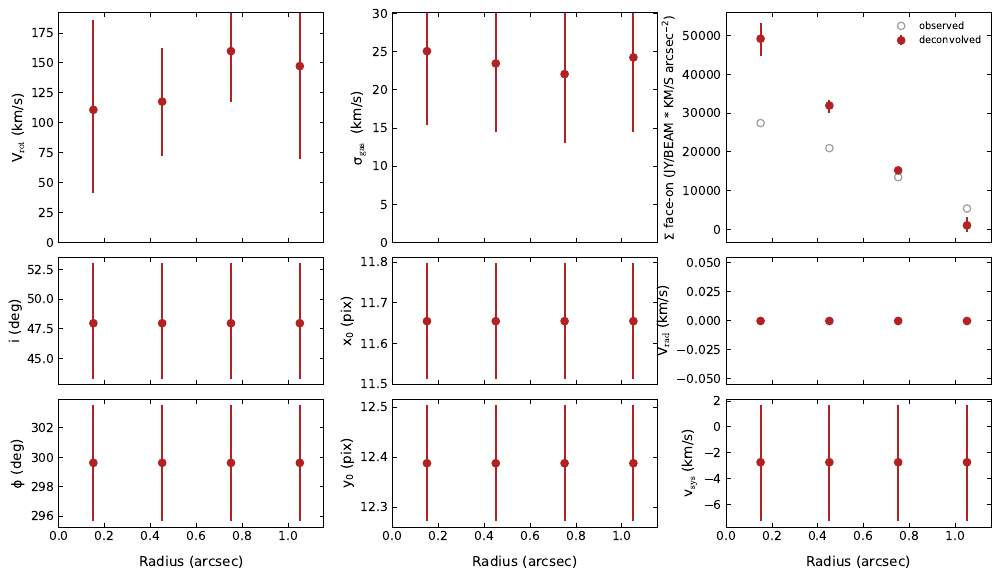
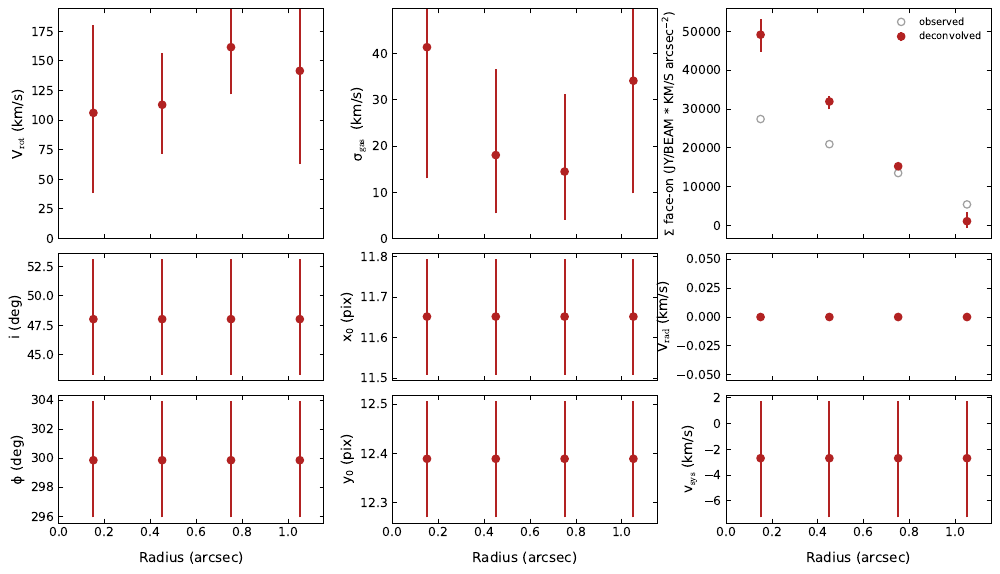
U3_25160 example: uniform VDISP prior, 0 to 100 km/s
The Gaussian prior (25 +- 10 km/s) is replaced by a wide uniform one, so the
posterior shows what the data say about the dispersion: below about 50 km/s in
the middle rings, unconstrained in the first and last. The page, its figures
and run time come from the new run.

diff --git a/docs/examples/u3-25160.md b/docs/examples/u3-25160.md
@@ -44,7 +44,7 @@ f = FitMod3D("U3_25160_Ha.fits", method="bayesian", beam=0.65, specres=0.90, red
              restwave=0.656461, nradii=4, radsep=0.3, vsys=4, xpos=11.6, ypos=12.3, vrot=130, vdisp=20,
              inc=50, pa=305, z0=0.1,
              free="VROT VDISP INC_SINGLE PA_SINGLE XPOS_SINGLE YPOS_SINGLE VSYS_SINGLE FRACERR",
-             priors="vdisp=(norm,loc=25,scale=10) vrot=(uniform,loc=0,scale=250)",
+             priors="vdisp=(uniform,loc=0,scale=100) vrot=(uniform,loc=0,scale=250)",
              mask="SEARCH", growthcut=1.8)
 res = f.run(threads=16)     # the sampling, in memory
 res.rings                   # the median rings, with the 68% intervals
@@ -59,8 +59,8 @@ res_c = f.run(method="classic", free="VROT VDISP", flagerrors=True, adrift=True)
 :::
 ::::
 
-On our server, with 16 cores (16 processes for the sampler), the run takes **1 minute 45 seconds**, of which 81
-seconds are the sampling (83 000 likelihoods). The sampler is random, so the numbers below change slightly from
+On our server, with 16 cores (16 processes for the sampler), the run takes **1 minute 42 seconds**, of which 82
+seconds are the sampling (87 000 likelihoods). The sampler is random, so the numbers below change slightly from
 run to run.
 
 ## The setup
@@ -76,9 +76,10 @@ run to run.
 - **Free parameters.** VROT and VDISP in each ring; one inclination, position angle, centre and systemic velocity
   (`_SINGLE`); and FRACERR, a fractional error of the model, because a smooth disk does not reproduce the clumpy Hα
   of a star-forming galaxy: 14 parameters. Z0 (0.1 arcsec) is fixed.
-- **Priors.** {ref}`PRIORS <par-3dfit-priors>` sets a uniform prior on VROT between 0 and 250 km/s, and an
-  informative Gaussian prior on VDISP, with mean 25 and dispersion 10 km/s: with channels of 42 km/s and an
-  instrumental dispersion of 38 km/s, the data hardly constrain the dispersion of the gas. The other priors are the
+- **Priors.** {ref}`PRIORS <par-3dfit-priors>` sets uniform priors on VROT, between 0 and 250 km/s, and on VDISP,
+  between 0 and 100 km/s: wide enough to let the data decide. With channels of 42 km/s and an instrumental
+  dispersion of 38 km/s, the data constrain the dispersion of the gas only weakly, and the posterior shows how
+  much (see below). The other priors are the
   defaults (INC between 40° and 60°, PA between 290° and 320°, the centre within ±6.5 pixels of the initial one,
   VSYS ±5 channels).
 - **Mask.** The source finder ({ref}`MASK <par-3dfit-mask>` `SEARCH`) grows the detections down to 1.8 times
@@ -93,19 +94,21 @@ run to run.
 
 | Parameter | Median and 68% interval |
 |---|---|
-| VROT, rings 1 to 4 | 111 (−69, +75), 118 ± 45, 160 (−42, +39), 147 (−77, +63) km/s |
-| VDISP, rings 1 to 4 | 22–25 ± 9 km/s |
+| VROT, rings 1 to 4 | 106 (−68, +74), 113 (−41, +44), 162 (−40, +38), 142 (−79, +67) km/s |
+| VDISP, rings 1 to 4 | 41 (−28, +35), 18 (−13, +19), 14 (−10, +17), 34 (−24, +36) km/s |
 | INC | 48.0° (−4.7, +5.1) |
-| PA | 299.6° ± 3.9° |
+| PA | 299.9° (−3.9, +4.1) |
 | VSYS | −2.7 (−4.6, +4.4) km/s |
-| FRACERR | 0.43 (−0.07, +0.08) |
+| FRACERR | 0.44 (−0.07, +0.08) |
 
-The rotation velocity of 120–160 km/s is measured to ±40 km/s in the middle rings; the first ring, inside the
-seeing, and the last, at the edge of the emission, are hardly constrained. The posterior of VDISP is the prior:
-these data do not measure the dispersion, and a fit that gives a dispersion with a small error here would be
-showing its prior or its starting value. The large FRACERR (43% of the model) says that the clumpy emission
-differs from the model of a smooth disk well above the noise: the reduced χ² is 3.67 without the model error and
-1.02 with it.
+The rotation velocity of 110–160 km/s is measured to ±40 km/s in the middle rings; the first ring, inside the
+seeing, and the last, at the edge of the emission, are hardly constrained. The dispersion is barely measured: in
+the two middle rings the posterior is concentrated below about 50 km/s (medians of 14 and 18 km/s, 95% upper limits
+of 50 and 56 km/s), and in the first and last ring it spreads over most of the prior. A dispersion smaller than
+the instrumental one and than the channels cannot be measured precisely from these data: a fit that gives it with
+a small error would be showing its prior or its starting value. The large FRACERR (44% of the model) says that the
+clumpy emission differs from the model of a smooth disk well above the noise: the reduced χ² is 3.66 without the
+model error and 1.02 with it.
 
 The classic fit of the commented lines (VROT and VDISP free, the geometry fixed at the initial values) gives
 VROT = 100, 125, 134 and 151 km/s, with errors of 6 to 16 km/s. Its errors are much smaller because they are
@@ -153,7 +156,7 @@ free parameters, with the 16th, 50th and 84th percentiles.
 ```
 
 The corner plot shows the correlations that a ring-by-ring fit cannot give: the rotation velocities of
-neighbouring rings are anti-correlated (correlation coefficients −0.5 to −0.7: the seeing mixes them), VROT is
+neighbouring rings are anti-correlated (correlation coefficients −0.5 to −0.6: the seeing mixes them), VROT is
 anti-correlated with INC (−0.4 for the third ring), and the centre with VSYS (0.4 for XPOS: a shift of the centre
 along the major axis mimics a change of the systemic velocity).
 

diff --git a/docs/examples/index.md b/docs/examples/index.md
@@ -15,7 +15,7 @@ diagrams and the channel maps of the data and of the model.
 | {doc}`ngc5633` | Hα + [NII], CALIFA optical IFU | CONTSUB, 3DFIT CLASSIC with three lines | 25 s |
 | {doc}`pgc53639` | HI, ATCA, warped disk at low inclination | 3DFIT CLASSIC, position angle free | 24 s |
 | {doc}`ugc1281` | HI, WSRT, edge-on dwarf | 3DFIT GLOBAL, smoothness priors, errors | 38 s |
-| {doc}`u3-25160` | Hα, KMOS, star-forming galaxy at z = 0.9 | 3DFIT BAYESIAN | 1 min 45 s |
+| {doc}`u3-25160` | Hα, KMOS, star-forming galaxy at z = 0.9 | 3DFIT BAYESIAN | 1 min 42 s |
 | {doc}`hd142527` | ¹³CO, ALMA, protoplanetary disk | 3DFIT BAYESIAN, geometry and thickness free | 41 min |
 | {doc}`2masxj1022` | Hα + [NII], SALT long slit, massive spiral | SLITFIT GLOBAL | 23 s |
 
